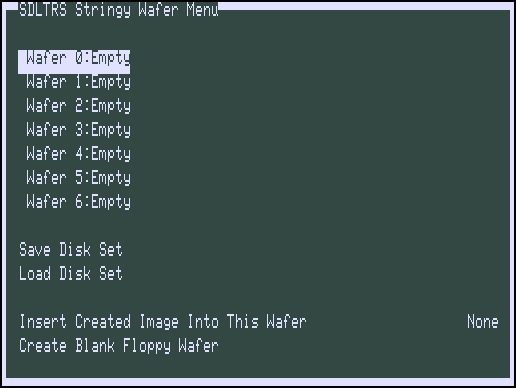
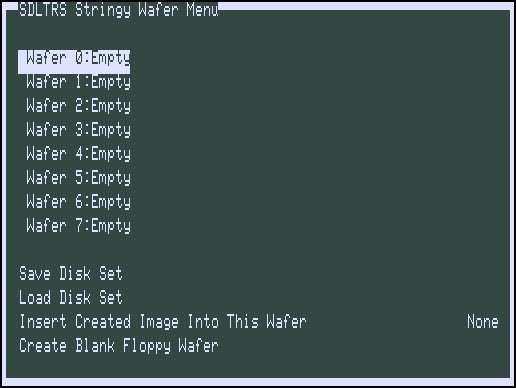
Update documentation and images

Changed region(s): [[0.031, 0.5567, 0.2481, 0.7113], [0.031, 0.7423, 0.2481, 0.8041]]

diff --git a/docs/Features.html b/docs/Features.html
@@ -8,7 +8,7 @@
 <body>
 <table border="0" cellpadding="0" cellspacing="20">
   <tr>
-    <td><img src="images/TRS80.png" alt="TRS-80 Model I"></td>
+    <td><img src="images/TRS-80.png" alt="TRS-80 Model I"></td>
     <td><h1>SDLTRS</h1><h2>Features</h2>
       <a href="index.html">Introduction</a> |
       <a href="Features.html">Features</a> |
@@ -94,19 +94,22 @@ are in the debugger, type <code>help</code> for more information.</p>
   <tr>
     <td><b>F1</b></td>
     <td>TRS-80 Model 4/4P F1 key (address bit 7, data bits 4)<br>
-        TRS-80 Model 1 Electric Pencil control key</td>
+        or F1 key on Genie II, System 80 Mark II and PMC-81</td>
   </tr>
   <tr>
     <td><b>F2</b></td>
-    <td>TRS-80 Model 4/4P F2 key (address bit 7, data bits 5)</td>
+    <td>TRS-80 Model 4/4P F2 key (address bit 7, data bits 5)<br>
+        or F2 key on Genie II, System 80 Mark II and PMC-81</td>
   </tr>
   <tr>
     <td><b>F3</b></td>
-    <td>TRS-80 Model 4/4P F3 key (address bit 7, data bits 6)</td>
+    <td>TRS-80 Model 4/4P F3 key (address bit 7, data bits 6)<br>
+        or F3 key on Genie II, System 80 Mark II and PMC-81</td>
   </tr>
   <tr>
     <td><b>F4</b></td>
-    <td>TRS-80 Model 4 Caps Lock key (address bit 7, data bit 3)</td>
+    <td>TRS-80 Model 4/4P Caps Lock key (address bit 7, data bit 3)<br>
+        or F4 key on Genie II, System 80 Mark II and PMC-81</td>
   </tr>
   <tr>
     <td><b>F5</b> or <b>ScrollLock</b></td>
@@ -349,19 +352,18 @@ once; and key 0 (KP_Insert) or 5 (KP_Begin) is the fire button.</p>
 <p>In addition to command line options to set the <a
 href="Options.html">emulator options</a> (most of which are also settable in
 the <a href="TextGUI.html">Text GUI</a>), SDLTRS allows the use of
-Configuration Files. On Linux, if no configuration file is specified, it will
-use (or create if it doesn't exist) one in the users home directory named
-<code>sdltrs.t8c</code>. On Windows, if no configuration file is specified, it
-will use (or create if it doesn't exist) one in the same directory as the
-executable named <code>sdltrs.t8c</code>.</p>
+Configuration Files. On UNIX like systems, if no configuration file is
+specified, it will use (or create if it doesn't exist) one hidden in the users
+home directory named <code>.sdltrs.t8c</code>. On Windows, if no configuration
+file is specified, it will use (or create if it doesn't exist) one in the same
+directory as the executable named <code>sdltrs.t8c</code>.</p>
 
 <h2><a name="Text_GUI"></a><u>Text GUI</u></h2>
 
 <p>SDLTRS provides a Text based menuing system that allows you to most aspect
-of emulator operation. The GUI is available at all times in the Windows and
-Linux versions (more info on the <a href="TextGUI.html">Text GUI</a> page).
-The Text GUI is entered by pressing <b>F7</b> or <b>Alt-M</b>, and exited by
-using the <b>ESC</b> key.</p>
+of emulator operation (more info on the <a href="TextGUI.html">Text GUI</a>
+page). The Text GUI is entered by pressing <b>F7</b> or <b>Alt-M</b>, and
+exited by using the <b>ESC</b> key.</p>
 
 <p>A picture of the top level menu of the GUI is below:</p>
 
@@ -412,10 +414,10 @@ screen full of garbage; a real Model III or 4 goes into a retry loop printing
 4P always has a floppy controller, however, so SDLTRS always emulates
 one.</p>
 
-<p>Due to a limitation of the original Model I hardware, drive :3 cannot be
-double-sided in Model I mode. In the original Model I, you could not have a
-drive :3 at all if any drive in the system was double-sided, but the emulator
-is able to be more forgiving.</p>
+<p>Due to a limitation of the original Model I hardware, drive <code>:3</code>
+cannot be double-sided in Model I mode. In the original Model I, you could not
+have a drive <code>:3</code> at all if any drive in the system was
+double-sided, but the emulator is able to be more forgiving.</p>
 
 <p>Emulated floppy image files can be of any of three types: JV1, compatible
 with Jeff Vavasour's popular freeware Model I emulator for MS-DOS; JV3, a
@@ -425,9 +427,9 @@ threetypes work in SDLTRS regardless of what model it is emulating. A
 heuristic is used to decide which type of image is in a drive, as none of the
 types has a magic number or signature.</p>
 
-<p>JV1 supports only single density, single sided, with directory on track
-17. Sectors must be 256 bytes long. Use FORMAT (DIR=17) if you want to format
-JV1 disks with more (or less) than 35 tracks under LDOS.</p>
+<p>JV1 supports only single density, single sided, with directory on track 17.
+Sectors must be 256 bytes long. Use <code>FORMAT (DIR=17)</code> if you want
+to format JV1 disks with more (or less) than 35 tracks under LDOS.</p>
 
 <p>JV3 is much more flexible, though it still does not support everything the
 real controllers could do. It is probably best to use JV3 for all the disk
@@ -490,20 +492,20 @@ it.</p>
 
 <p>The only difference between 5.25-inch and 8-inch emulated drives is that
 the emulator allows you to format more bytes per track in the latter. A new
-JV3 floppy can be formatted as either 5.25-inch or 8-inch depending on
-whether you initially put it into a 5.25-inch or 8-inch emulated drive.  A
-new DMK floppy, however, must be created as an 8 inch image in order to be
-large enough for use in an 8-inch emulated drive. JV1 floppies cannot be used
-in 8-inch drives. Be careful not to put an emulated floppy into a 5.25-inch
-emulated drive after it has been formatted in an 8-inch emulated drive or
-vice versa; the results are likely to be confusing. Consider using different
-file extensions for the two types; say, <code>.dsk</code> for 5.25-inch and
+JV3 floppy can be formatted as either 5.25-inch or 8-inch depending on whether
+you initially put it into a 5.25-inch or 8-inch emulated drive. A new DMK
+floppy, however, must be created as an 8 inch image in order to be large
+enough for use in an 8-inch emulated drive. JV1 floppies cannot be used in
+8-inch drives. Be careful not to put an emulated floppy into a 5.25-inch
+emulated drive after it has been formatted in an 8-inch emulated drive or vice
+versa; the results are likely to be confusing. Consider using different file
+extensions for the two types; say, <code>.dsk</code> for 5.25-inch and
 <code>.8in</code> for 8-inch.</p>
 
 <p>To use the emulated 8-inch drives, you'll need a driver. Under LDOS or
-LS-DOS, use the program XTRS8/DCT supplied on the emulated floppy
-utility.dsk. This driver is a very simple wrapper around the native
-LDOS/LS-DOS floppy driver. Here are detailed instructions.</p>
+LS-DOS, use the program XTRS8/DCT supplied on the emulated floppy utility.dsk.
+This driver is a very simple wrapper around the native LDOS/LS-DOS floppy
+driver. Here are detailed instructions.</p>
 
 <p>First, make sure an appropriate version of LDOS is in emulated floppy
 drive 0, and the supplied file utility.dsk is in another emulated floppy
@@ -693,7 +695,7 @@ Detailed instructions are beyond the scope of this manual page.</p>
 
 <h2><a name="Emulated_stringy_floppy"></a><u>Emulated Stringy Floppy</u></h2>
 
-<p>SDLTRS can emulate up to 7 drives for the Exatron Stringy Floppy (ESF) in
+<p>SDLTRS can emulate up to 8 drives for the Exatron Stringy Floppy (ESF) in
 Model I mode. The emulation can be activated with the <code>-stringy</code>
 option on the command line or in the "Emulator Settings Menu". The built-in
 ROM for ESF will be loaded. To initialize the ESF firmware in BASIC, type:</p>

diff --git a/docs/TextGUI.html b/docs/TextGUI.html
@@ -8,7 +8,7 @@
 <body>
 <table border="0" cellpadding="0" cellspacing="20">
   <tr>
-    <td><img src="images/TRS80.png" alt="TRS-80 Model I"></td>
+    <td><img src="images/TRS-80.png" alt="TRS-80 Model I"></td>
     <td><h1>SDLTRS</h1><h2>Text GUI</h2>
       <a href="index.html">Introduction</a> |
       <a href="Features.html">Features</a> |
@@ -40,14 +40,16 @@
 
 <p><img alt="" src="images/TextGUIMainMenu.png"></p>
 
-<p>The main menu is the entry point for the Text GUI. You may move up and
-down through the menu items using the up and down arrow keys. The <b>Home</b>
-or the <b>End</b> keys moves to the first or last menu item. Typing the first
-letter of a menu item marks it for selection. A menu item may be selected
-by pressing <b>Enter</b> when the item is highlighted. Pressing <b>ESC</b>
-moves up a menu level (or exits the GUI if you are at the top level). Besides
-entering the GUI using <b>F7</b> or <b>Alt-M</b>, submenus of the GUI may be
-entered by using the key shortcuts shown after the menu items.</p>
+<p>The main menu is the entry point for the Text GUI. You may move up and down
+through the menu items using the up and down arrow keys. The <b>Home</b> or
+the <b>End</b> keys moves to the first or last menu item. Typing the first
+letter of a menu item marks it for selection. Pressing a number key from
+<b>0</b> to <b>9</b> marks the corresponding menu item. A menu item may be
+selected by pressing <b>Enter</b> when the item is highlighted. Pressing
+<b>ESC</b> moves up a menu level (or exits the GUI if you are at the top
+level). Besides entering the GUI using <b>F7</b> or <b>Alt-M</b>, submenus of
+the GUI may be entered by using the key shortcuts shown after the menu
+items.</p>
 
 <h2><a name="Floppy_Disk_Management"></a><u>Floppy Disk Management</u></h2>
 
@@ -111,11 +113,10 @@ none, the created image will be mounted on the specified floppy drive.</p>
 
 <h3>Doubler Type:</h3>
 
-<p>Specify what type of double density adaptor to emulate (Model I mode
-only). The type may be percom, radioshack (or tandy), both, or none. The type
-may be abbreviated to one character. The default is both, which causes the
-double density adaptor emulation to respond to the special commands of both
-the Percom and Radio Shack cards.</p>
+<p>Specify what type of double density adaptor to emulate (Model I mode only).
+The type may be <b>Percom</b>, <b>Tandy</b>, <b>Both</b>, or <b>None</b>. The
+default is <b>Both</b>, which causes the double density adaptor emulation to
+respond to the special commands of both the Percom and Tandy cards.</p>
 
 <h3>True DAM Emulation:</h3>
 
@@ -218,7 +219,7 @@ image will be used in the cassette drive.</p>
 images into the emulated drives, as well as save and load disk sets, and
 create new wafer images with default parameters.</p>
 
-<p>For the first 7 options in the menu, there are three options:</p>
+<p>For the first 8 options in the menu, there are three options:</p>
 
 <ul>
   <li>Hitting <b>Enter</b> while the item is selected, will move to the image
@@ -244,7 +245,7 @@ create new wafer images with default parameters.</p>
 
 <h3>Exatron Stringy Floppy:</h3>
 
-<p>Emulates up to 7 Stringy Floppy Drives for the TRS-80 Model I.</p>
+<p>Emulates up to 8 Stringy Floppy Drives for the TRS-80 Model I.</p>
 
 <h3>Graphics Emulations:</h3>
 
@@ -307,8 +308,8 @@ the printer command to be executed using the file name.</p>
 
 <p>The only option for the text printer type is the command used to print.
 Within the command, <code>%s</code> is used to represent the file name of the
-temporary file generated during printing. On Linux, this defaults to
-<code>lpr %s</code> and on Windows <code>notepad %s</code>. The
+temporary file generated during printing. On UNIX like systems this defaults
+to <code>lpr %s</code> and on Windows to <code>notepad %s</code>. The
 <code>%s</code> in the printer command will be replaced with the name of the
 printer output file.</p>
 
@@ -359,27 +360,29 @@ Default is white (<code>0xE0E0FF</code>) for foreground and dark green
 <p>Select among several sets of built-in character bitmaps. The three
 different options allow you to specify the character set used for each model,
 should you change models during SDLTRS execution using the GUI. In Model I
-mode, five sets are available. The default, <b>wider</b>, is a modified
+mode, seven sets are available. The default, <b>wider</b>, is a modified
 Model III set with characters 8 pixels wide; it looks better on a modern
 computer screen with square pixels than the real Model I fonts, which were 6
 pixels wide. <b>lcmod</b> is the character set in the replacement character
-generator that was supplied with the Radio Shack lower case modification.
-(It was reconstructed partly from memory and may have some minor bit errors.)
+generator that was supplied with the Radio Shack lower case modification. (It
+was reconstructed partly from memory and may have some minor bit errors.)
 <b>stock</b> is the character set in the stock character generator supplied
 with most upper case only machines. Since SDLTRS currently always emulates
-the extra bit of display memory needed to support lower case, this
-character set gives you the authentic, unpleasant effect that real Model I
-users saw when they tried to do homebrew lower case modifications without
-replacing the character generator: lower case letters appear at an
-inconsistent height, and if you are using the Level II BASIC ROM display
-driver, upper case letters are replaced by meaningless symbols. early is the
-same as stock, but with the standard ASCII characters [, \, ], and ^ in the
-positions where most Model I's had directional arrows. This was the default
-programming in the Motorola character generator ROM that Radio Shack used,
-and a few early machines were actually shipped with this ROM. Finally,
-<b>german</b> or <b>genie</b> gives an approximate emulation of the GENIE, a
-German Model I clone. Characters are 8 pixels wide, and double width is
-supported even though later GENIE models did not include it.</p>
+the extra bit of display memory needed to support lower case, this character
+set gives you the authentic, unpleasant effect that real Model I users saw
+when they tried to do homebrew lower case modifications without replacing the
+character generator: lower case letters appear at an inconsistent height,
+and if you are using the Level II BASIC ROM display driver, upper case letters
+are replaced by meaningless symbols. early is the same as stock, but with the
+standard ASCII characters [, \, ], and ^ in the positions where most Model
+I's had directional arrows. This was the default programming in the Motorola
+character generator ROM that Radio Shack used, and a few early machines were
+actually shipped with this ROM. <b>genie</b> gives an emulation of the Genie
+I/II (relabled Video Genie in Germany) with German characters.
+<b>ht-1080z</b> emulates the HT-1080Z (relabled Video Genie in Hungary) with
+accented Hungarian characters. <b>video genie</b> displays the character set
+of the EACA Video Genie (also labeled as the System 80 in Australia/New
+Zealand and PMC-80/81 in North America).</p>
 
 <p>In Model III, 4 and 4P modes, three sets are available:</p>
 

diff --git a/docs/Options.html b/docs/Options.html
@@ -8,7 +8,7 @@
 <body>
 <table border="0" cellpadding="0" cellspacing="20">
   <tr>
-    <td><img src="images/TRS80.png" alt="TRS-80 Model I"></td>
+    <td><img src="images/TRS-80.png" alt="TRS-80 Model I"></td>
     <td><h1>SDLTRS</h1><h2>Options</h2>
       <a href="index.html">Introduction</a> |
       <a href="Features.html">Features</a> |
@@ -136,7 +136,7 @@ and that state will be restored upon startup of the emulator.</p>
         The three different options allow you to specify the character
         set used for each model, should you change models during SDLTRS
         execution using the GUI. In Model I mode (<code>-charset1</code>),
-        five sets are available. The default, <code>wider</code>, is a
+        seven sets are available. The default, <code>wider</code>, is a
         modified Model III set with characters 8 pixels wide; it looks better
         on a modern computer screen with square pixels than the real Model I
         fonts, which were 6 pixels wide. <code>lcmod</code> is the character
@@ -155,19 +155,22 @@ and that state will be restored upon startup of the emulator.</p>
         standard ASCII characters [, \, ], and ^ in the positions where most
         Model I's had directional arrows. This was the default programming in
         the Motorola character generator ROM that Radio Shack used, and a few
-        early machines were actually shipped with this ROM. Finally, <code>
-        german</code> or <code>genie</code> gives an approximate emulation of
-        the GENIE, a German Model I clone. Characters are 8 pixels wide, and
-        double width is supported even though later GENIE models did not
-        include it. In Model III (<code>-charset3</code>), 4 and 4P
-        (<code>-charset4</code>) modes, three sets are available: <code>
-        katakana</code> (the default for Model III) is the original Model III
-        set with Japanese Katakana characters in the alternate character
-        positions. This set was also used in early Model 4's.
-        <code>international</code> (the default for Model 4 and 4P) is a later
-        Model 4 set with accented Roman letters in the alternate positions.
-        <code>bold</code> is a bold set from a character generator ROM found in
-        one Model III, origin uncertain.</td>
+        early machines were actually shipped with this ROM. <code>genie</code>
+        or <code>german</code> gives an emulation of the Genie I/II (relabled
+        Video Genie in Germany) with german characters. <code>ht-1080z</code>
+        or <code>hungarian</code> emulates the HT-1080Z (relabled Video Genie in
+        Hungary) with accented hungarian characters. <code>videogenie</code>
+        displays the character set of the EACA Video Genie (also labeled as the
+        System 80 in Australia/New Zealand and PMC-80/81 in North America).<br>
+        In Model III (<code>-charset3</code>), 4 and 4P (<code>-charset4</code>)
+        modes, three sets are available: <code>katakana</code> (the default for
+        Model III) is the original Model III set with Japanese Katakana
+        characters in the alternate character positions. This set was also used
+        in early Model 4's. <code>international</code> (the default for Model 4
+        and 4P) is a later Model 4 set with accented Roman letters in the
+        alternate positions. <code>bold</code> is a bold set from a character
+        generator ROM found in one Model III, origin uncertain.
+        The name of the character set may be abbreviated to one character.</td>
   </tr>
   <tr>
     <td><code>-disk0 filename<br>
@@ -214,9 +217,10 @@ and that state will be restored upon startup of the emulator.</p>
               -wafer3 filename<br>
               -wafer4 filename<br>
               -wafer5 filename<br>
-              -wafer6 filename</code></td>
+              -wafer6 filename<br>
+              -wafer7 filename</code></td>
     <td>Specifies the name of the stringy wafer image file to be inserted
-        into Wafer<code>N</code>, where <code>N</code>=0 through 6.</td>
+        into Wafer<code>N</code>, where <code>N</code>=0 through 7.</td>
   </tr>
   <tr>
     <td><code>-microlabs</code></td>

diff --git a/docs/KnownBugs.html b/docs/KnownBugs.html
@@ -8,7 +8,7 @@
 <body>
 <table border="0" cellpadding="0" cellspacing="20">
   <tr>
-    <td><img src="images/TRS80.png" alt="TRS-80 Model I"></td>
+    <td><img src="images/TRS-80.png" alt="TRS-80 Model I"></td>
     <td><h1>SDLTRS</h1><h2>Known Bugs</h2>
       <a href="index.html">Introduction</a> |
       <a href="Features.html">Features</a> |
@@ -47,8 +47,7 @@ Utility do) works on both DMK and JV3.</p>
 <p>Real physical floppy disks are supported only under Linux, because the
 other OS's does not define a portable interface to the low-level floppy
 controller functionality that SDLTRS needs, or support the floppy controllers
-themselves. Also note, this is untested in SDLTRS, but was just brought over
-from xtrs. There are some limitations even under Linux: Index holes are
+themselves. There are some limitations even under Linux: Index holes are
 faked, not detected on the real disk, and the timing of returned sectors is
 not emulated at all. Due to the limitations of PC-style floppy disk
 controllers, when formatting a physical floppy under SDLTRS, you cannot mix

diff --git a/docs/ReleaseHistory.html b/docs/ReleaseHistory.html
@@ -8,7 +8,7 @@
 <body>
 <table border="0" cellpadding="0" cellspacing="20">
   <tr>
-    <td><img src="images/TRS80.png" alt="TRS-80 Model I"></td>
+    <td><img src="images/TRS-80.png" alt="TRS-80 Model I"></td>
     <td><h1>SDLTRS</h1><h2>Release History</h2>
       <a href="index.html">Introduction</a> |
       <a href="Features.html">Features</a> |

diff --git a/docs/index.html b/docs/index.html
@@ -8,7 +8,7 @@
 <body>
 <table border="0" cellpadding="0" cellspacing="20">
   <tr>
-    <td><img src="images/TRS80.png" alt="TRS-80 Model I"></td>
+    <td><img src="images/TRS-80.png" alt="TRS-80 Model I"></td>
     <td><h1>SDLTRS</h1><h2>Introduction</h2>
       <a href="index.html">Introduction</a> |
       <a href="Features.html">Features</a> |

diff --git a/docs/Credits.html b/docs/Credits.html
@@ -8,7 +8,7 @@
 <body>
 <table border="0" cellpadding="0" cellspacing="20">
   <tr>
-    <td><img src="images/TRS80.png" alt="TRS-80 Model I"></td>
+    <td><img src="images/TRS-80.png" alt="TRS-80 Model I"></td>
     <td><h1>SDLTRS</h1><h2>Credits</h2>
       <a href="index.html">Introduction</a> |
       <a href="Features.html">Features</a> |
